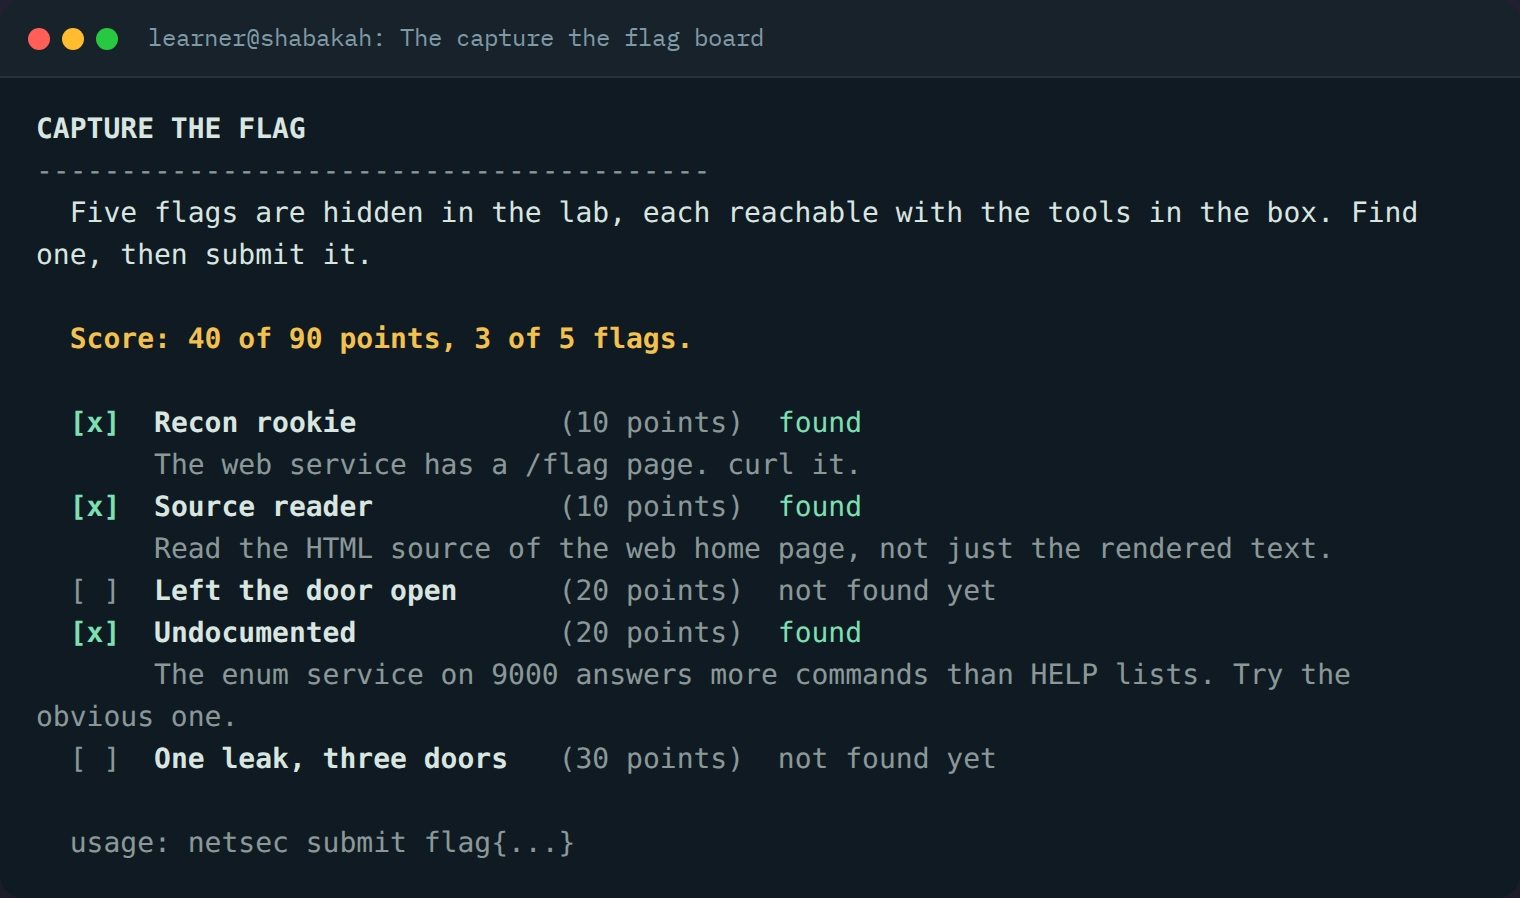
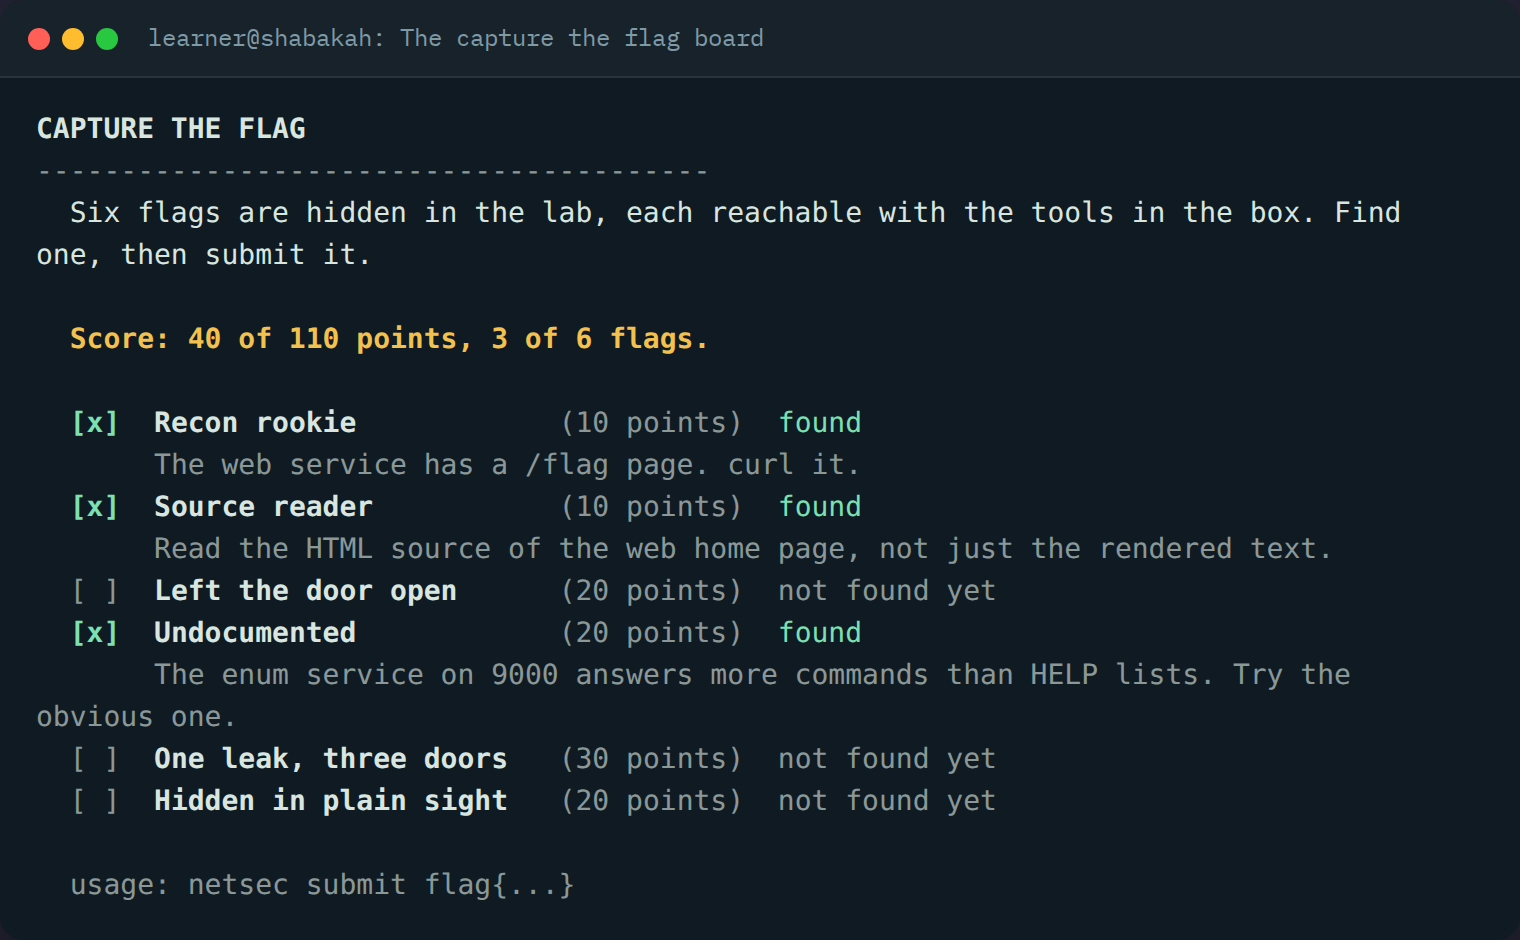
Add a sixth flag in the certificate metadata

diff --git a/docs/index.html b/docs/index.html
@@ -4,7 +4,7 @@
 <meta charset="utf-8">
 <meta name="viewport" content="width=device-width, initial-scale=1">
 <title>Shabakah (شبكة): a network security lab you SSH into</title>
-<meta name="description" content="Shabakah is a self contained Docker container you SSH into to learn network security by doing. Twelve hands on lessons, six live targets, a five flag capture the flag hunt, achievements, and a guide that checks your answers. English and Arabic.">
+<meta name="description" content="Shabakah is a self contained Docker container you SSH into to learn network security by doing. Twelve hands on lessons, six live targets, a six flag capture the flag hunt, achievements, and a guide that checks your answers. English and Arabic.">
 <meta name="theme-color" content="#0B141B">
 <meta property="og:type" content="website">
 <meta property="og:title" content="Shabakah (شبكة): a network security lab you SSH into">
@@ -245,7 +245,7 @@ footer{border-top:1px solid var(--rule);padding:40px 0 56px;color:var(--ink-3)}
     <div class="facts">
       <div class="fact"><b>12</b><span>hands on lessons</span></div>
       <div class="fact"><b>6</b><span>live targets</span></div>
-      <div class="fact"><b>5</b><span>flags, 90 points</span></div>
+      <div class="fact"><b>6</b><span>flags, 110 points</span></div>
       <div class="fact"><b>2</b><span>languages</span></div>
     </div>
   </div>
@@ -282,7 +282,7 @@ footer{border-top:1px solid var(--rule);padding:40px 0 56px;color:var(--ink-3)}
     <div class="card k-nar">
       <div class="ic"><svg viewBox="0 0 24 24"><path d="M12 2l3 6 6 .8-4.5 4.2L18 20l-6-3.4L6 20l1.5-7L3 8.8 9 8z"/></svg></div>
       <h3>Capture the flag</h3>
-      <p>Five flags are hidden across the targets, each reachable with the tools in the box. Hunt them, submit them, watch your score climb to ninety.</p>
+      <p>Six flags are hidden across the targets, each reachable with the tools in the box. Hunt them, submit them, watch your score climb to a hundred and ten.</p>
     </div>
     <div class="card k-third">
       <div class="ic"><svg viewBox="0 0 24 24"><circle cx="12" cy="8" r="5"/><path d="M8 14l-2 8 6-3 6 3-2-8"/></svg></div>
@@ -334,7 +334,7 @@ footer{border-top:1px solid var(--rule);padding:40px 0 56px;color:var(--ink-3)}
 <!-- CTF -->
 <section id="ctf"><div class="wrap">
   <p class="eyebrow">Capture the flag</p>
-  <h2>Five flags. Ninety points. One container.</h2>
+  <h2>Six flags. A hundred and ten points. One container.</h2>
   <p class="lead">Each flag sits somewhere a careless operator would leave it, and each is reachable with a tool you already have. Find one, then run <code>netsec submit flag{...}</code>.</p>
   <div class="flaglist">
     <div class="flag"><span class="pts">10 pt</span><div><h3>Recon rookie</h3><p>The web service has a page it should not. A first curl finds it.</p></div></div>
@@ -342,7 +342,8 @@ footer{border-top:1px solid var(--rule);padding:40px 0 56px;color:var(--ink-3)}
     <div class="flag"><span class="pts">20 pt</span><div><h3>Left the door open</h3><p>robots.txt points at paths that were never meant to be public. One holds a config backup.</p></div></div>
     <div class="flag"><span class="pts">20 pt</span><div><h3>Undocumented</h3><p>A service answers more commands than it admits to. Enumeration finds the one it hides.</p></div></div>
     <div class="flag"><span class="pts">30 pt</span><div><h3>One leak, three doors</h3><p>A cleartext console reuses a password you already saw cross the wire. Reuse is the whole lesson.</p></div></div>
-    <div class="flag"><span class="pts">90 pt</span><div><h3>Clean board</h3><p>Capture all five and the master badge is yours. Track it any time with <code>netsec ctf</code>.</p></div></div>
+    <div class="flag"><span class="pts">20 pt</span><div><h3>Hidden in plain sight</h3><p>The TLS certificate carries a field it never should. Read the whole subject, not just the common name.</p></div></div>
+    <div class="flag"><span class="pts">110 pt</span><div><h3>Clean board</h3><p>Capture all five and the master badge is yours. Track it any time with <code>netsec ctf</code>.</p></div></div>
   </div>
   <div class="ctf-note">Lesson twelve walks the full chain, from one small leak to real access, so the hunt doubles as a lesson in how a real assessment actually runs.</div>
 </div></section>
@@ -441,7 +442,7 @@ ssh -p 2222 learner@localhost</pre>
 
 <section><div class="wrap"><div class="closer">
   <h2>Open a terminal and begin.</h2>
-  <p class="lead">Twelve lessons, six live targets, and a hunt for five flags are waiting inside one container.</p>
+  <p class="lead">Twelve lessons, six live targets, and a hunt for six flags are waiting inside one container.</p>
   <div class="cta" style="justify-content:center">
     <a class="btn btn-primary" href="#start">Get started</a>
     <a class="btn btn-ghost" href="https://github.com/SiteQ8/Shabakah">Star it on GitHub</a>
@@ -470,7 +471,7 @@ ssh -p 2222 learner@localhost</pre>
     <div class="facts">
       <div class="fact"><b>12</b><span>درسا عمليا</span></div>
       <div class="fact"><b>6</b><span>أهداف حية</span></div>
-      <div class="fact"><b>5</b><span>أعلام و90 نقطة</span></div>
+      <div class="fact"><b>6</b><span>أعلام و110 نقطة</span></div>
       <div class="fact"><b>2</b><span>لغتان</span></div>
     </div>
   </div>
@@ -507,7 +508,7 @@ ssh -p 2222 learner@localhost</pre>
     <div class="card k-nar">
       <div class="ic"><svg viewBox="0 0 24 24"><path d="M12 2l3 6 6 .8-4.5 4.2L18 20l-6-3.4L6 20l1.5-7L3 8.8 9 8z"/></svg></div>
       <h3>التقاط الأعلام</h3>
-      <p>خمسة أعلام مخبأة في الأهداف ويمكن الوصول إلى كل واحد بأدوات الحاوية، فاصطدها وأرسلها وشاهد نتيجتك تصعد إلى تسعين.</p>
+      <p>ستة أعلام مخبأة في الأهداف ويمكن الوصول إلى كل واحد بأدوات الحاوية، فاصطدها وأرسلها وشاهد نتيجتك تصعد إلى مئة وعشر.</p>
     </div>
     <div class="card k-third">
       <div class="ic"><svg viewBox="0 0 24 24"><circle cx="12" cy="8" r="5"/><path d="M8 14l-2 8 6-3 6 3-2-8"/></svg></div>
@@ -559,7 +560,7 @@ ssh -p 2222 learner@localhost</pre>
 <!-- CTF -->
 <section id="ctf-ar"><div class="wrap">
   <p class="eyebrow">التقاط الأعلام</p>
-  <h2>خمسة أعلام وتسعون نقطة وحاوية واحدة.</h2>
+  <h2>ستة أعلام ومئة وعشر نقاط وحاوية واحدة.</h2>
   <p class="lead">يجلس كل علم حيث يتركه مشغّل مهمل ويمكن الوصول إليه بأداة تملكها أصلا، فاعثر على واحد ثم نفّذ <code>netsec submit flag{...}</code>.</p>
   <div class="flaglist">
     <div class="flag"><span class="pts">10 نقاط</span><div><h3>مستكشف مبتدئ</h3><p>لخدمة الويب صفحة لا ينبغي أن تكون، فأول طلب curl يجدها.</p></div></div>
@@ -567,7 +568,8 @@ ssh -p 2222 learner@localhost</pre>
     <div class="flag"><span class="pts">20 نقطة</span><div><h3>باب مفتوح</h3><p>يشير ملف robots.txt إلى مسارات لم يُقصد نشرها وأحدها يحوي نسخة احتياطية للإعداد.</p></div></div>
     <div class="flag"><span class="pts">20 نقطة</span><div><h3>غير موثّق</h3><p>تجيب خدمة أوامر أكثر مما تعترف به، فالتعداد يجد الأمر الذي تخفيه.</p></div></div>
     <div class="flag"><span class="pts">30 نقطة</span><div><h3>تسريب واحد وثلاثة أبواب</h3><p>تعيد وحدة تحكم بنص صريح استخدام كلمة مرور رأيتها تعبر الشبكة، فإعادة الاستخدام هي الدرس كله.</p></div></div>
-    <div class="flag"><span class="pts">90 نقطة</span><div><h3>لوحة نظيفة</h3><p>التقط الخمسة جميعا فتصير شارة الأستاذ لك، وتابعها متى شئت بالأمر <code>netsec ctf</code>.</p></div></div>
+    <div class="flag"><span class="pts">20 نقطة</span><div><h3>مخبأ على مرأى</h3><p>تحمل شهادة TLS حقلا لا ينبغي أن يكون، فاقرأ الموضوع كاملا لا الاسم الشائع فقط.</p></div></div>
+    <div class="flag"><span class="pts">110 نقطة</span><div><h3>لوحة نظيفة</h3><p>التقط الخمسة جميعا فتصير شارة الأستاذ لك، وتابعها متى شئت بالأمر <code>netsec ctf</code>.</p></div></div>
   </div>
   <div class="ctf-note">يمشي الدرس الثاني عشر السلسلة كاملة من تسريب صغير إلى وصول حقيقي، فيصير الصيد في الوقت نفسه درسا في كيف يجري التقييم الواقعي فعلا.</div>
 </div></section>
@@ -666,7 +668,7 @@ ssh -p 2222 learner@localhost</pre>
 
 <section><div class="wrap"><div class="closer">
   <h2>افتح طرفية وابدأ.</h2>
-  <p class="lead">اثنا عشر درسا وستة أهداف حية وصيد لخمسة أعلام تنتظر داخل حاوية واحدة.</p>
+  <p class="lead">اثنا عشر درسا وستة أهداف حية وصيد لستة أعلام تنتظر داخل حاوية واحدة.</p>
   <div class="cta" style="justify-content:center">
     <a class="btn btn-primary" href="#start-ar">ابدأ الآن</a>
     <a class="btn btn-ghost" href="https://github.com/SiteQ8/Shabakah">ضع نجمة على GitHub</a>

diff --git a/README.md b/README.md
@@ -10,7 +10,7 @@ A network security lab you SSH into to learn by doing.
 Shabakah is a single self contained Docker container. You start it, you SSH in,
 and a bilingual guide walks you through twelve hands on lessons against real
 services running beside it. Every challenge is checked live, so you learn by
-doing, not by reading. There is also a five flag capture the flag hunt and a set
+doing, not by reading. There is also a six flag capture the flag hunt and a set
 of achievements to earn. Nothing here reaches the outside world, so you can
 practise scanning, capture, and enumeration safely.
 
@@ -55,7 +55,7 @@ Your progress is saved between sessions.
 Six live practice targets, each one there so a lesson has something honest to
 find, from a chatty web service to a forgotten cleartext console.
 
-A capture the flag hunt of five flags worth ninety points, plus seven
+A capture the flag hunt of six flags worth a hundred and ten points, plus seven
 achievements that unlock as you clear lessons and capture flags.
 
 ![Capture the flag](docs/screenshots/ctf.png)
@@ -94,7 +94,7 @@ Twelve lessons, each ending in a live challenge the guide checks for you.
 
 ## Capture the flag
 
-Five flags are hidden across the targets, each reachable with the tools in the
+Six flags are hidden across the targets, each reachable with the tools in the
 box. Find one, then submit it.
 
 ```

diff --git a/CHANGELOG.md b/CHANGELOG.md
@@ -2,6 +2,20 @@
 
 All notable changes to Shabakah are recorded here.
 
+## 1.1.1
+
+Added
+
+- A sixth capture the flag flag, hidden in the TLS certificate metadata on the
+  HTTPS target. The certificate subject carries a field it never should, found
+  with the same openssl skill lesson seven teaches. The board is now six flags
+  worth a hundred and ten points.
+
+Fixed
+
+- The guide no longer prints a traceback when its output is piped into a reader
+  that closes early, such as head or grep.
+
 ## 1.1.0
 
 Added
